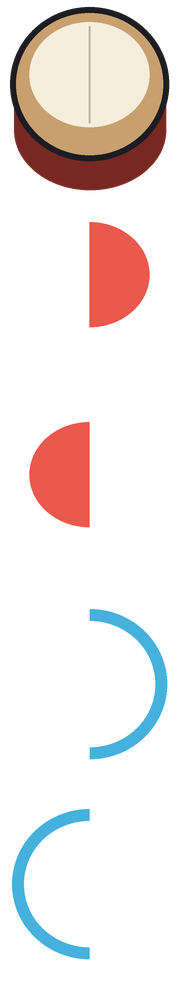
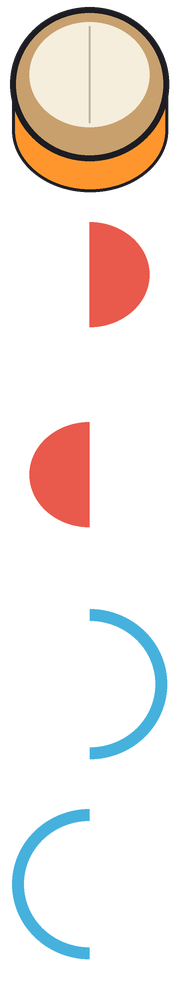
演奏画面の★の数を消す。シンプルスキンのミニ太鼓の胴を明るいオレンジに
- 難易度のマークの下に出していた「★8」などを出さないようにした（どのスキンでも）
- TaikoSim-Simple：ミニ太鼓の胴が左のパネルの赤に溶けていたので、明るいオレンジ＋黒い輪郭にした

Claude-Session: https://claude.ai/code/session_01DAU9tpBiF8CGAJXqk8DqYG

Changed region(s): [[0.0556, 0.093, 0.9444, 0.217]]

diff --git a/TaikoSim/Scenes/PlayHUD.cs b/TaikoSim/Scenes/PlayHUD.cs
@@ -33,7 +33,7 @@ namespace TaikoSim.Scenes
         private float gaugeFlashElapsed;
         private float scoreBounceElapsed = ScoreBounceSeconds;
         private long shownScore = -1;
-        private string scoreText = "0", levelText = "0", courseText = "";
+        private string scoreText = "0", courseText = "";
         private sealed class ScorePopup
         {
             public string Text = "";
@@ -69,11 +69,9 @@ namespace TaikoSim.Scenes
             scoreText = "0";
             scorePopups.Clear();
             soulFlashAge = 1f;
-            levelText = "★" + Math.Max(0, course.Level).ToString(CultureInfo.InvariantCulture);
             courseText = Chart.GetCourseName(course.Type);
             // 画像がない場合の文字も、演奏開始前に準備する。
             FontManager.Measure(courseText, 22);
-            FontManager.Measure(levelText, 24);
             songTitle = title.Replace('\r', ' ').Replace('\n', ' ').Trim();
             FontManager.PrepareSkinMainText(songTitle);
             PrepareSongTitleLayout();
@@ -150,8 +148,7 @@ namespace TaikoSim.Scenes
                 DrawPart(symbol, new Rectangle(0, row * height, symbol.Width, height), 27, 351);
             }
             else FontManager.Draw(courseText, 30, 370, 22, Color.White);
-
-            FontManager.Draw(levelText, 55, 448, 24, Color.White);
+            // 難易度の★の数は出さない(難易度のマークだけ)
         }
 
         private static bool DrawDigits(string text, float x, float y, float scale, float bounce, bool alignRight)
